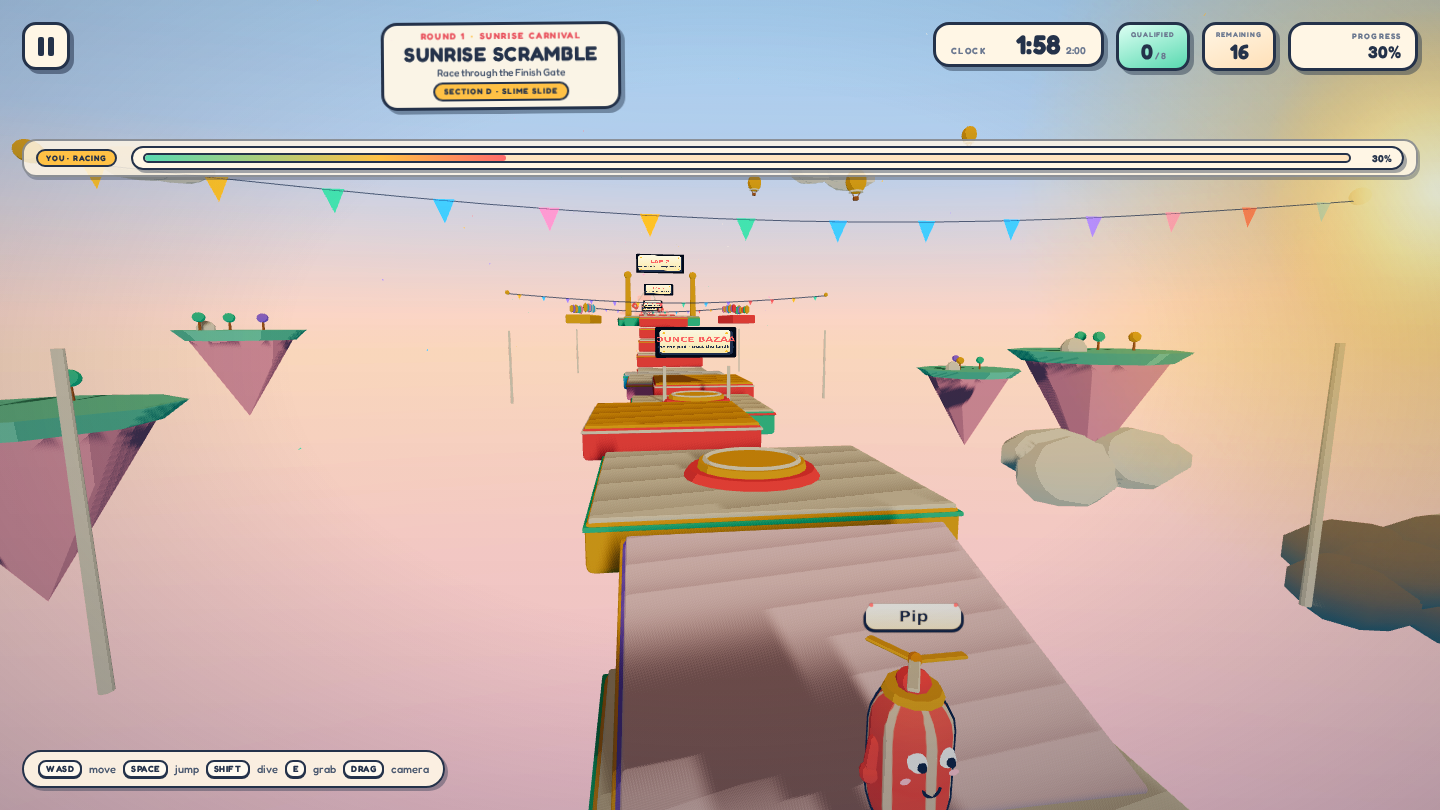
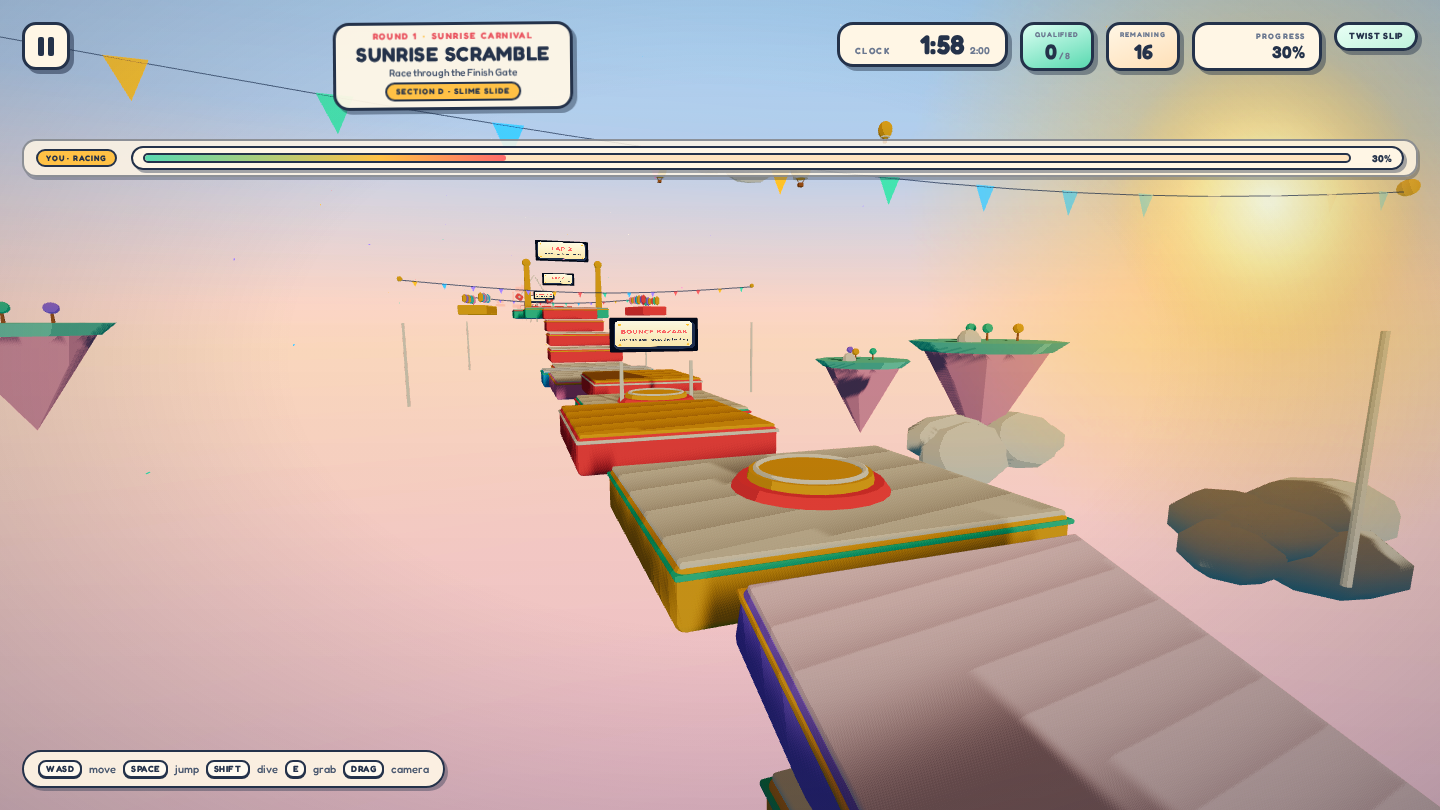
docs(m4-006): record M4 evidence, performance and public copy

diff --git a/README.md b/README.md
@@ -16,7 +16,7 @@
 
 ![Tumble Rush main menu, captured from the live GitHub Pages deployment](docs/readme-hero.png)
 
-Tumble Rush is an original, single-player 3D party battle royale. You are one of 16 jelly-bean **Tumblers** in a sunrise-carnival game show: race a seeded obstacle course, survive a collapsing honeycomb arena, then climb a rising-slime tower to take the crown. Every model, texture, particle, and note of music is generated in code.
+Tumble Rush is an original, single-player 3D party battle royale. You are one of 16 jelly-bean **Tumblers** in a sunrise-carnival game show: race a seeded obstacle course, survive a collapsing honeycomb arena, then climb a rising-slime tower to take the crown. Every Show also carries a seeded **twist** — MOON GRAVITY, SLIPPERY, or RUSH HOUR — that changes the qualifier rules while the Crown Climb stays classic. Every model, texture, particle, and note of music is generated in code.
 
 **No installs. No accounts. No network calls at runtime.** Open the link and play.
 
@@ -24,17 +24,18 @@ Tumble Rush is an original, single-player 3D party battle royale. You are one of
 
 | Round | Mode | Field | Advance | The idea |
 | --- | --- | --- | --- | --- |
-| 1 | **Sunrise Scramble** | 16 | Top 8 finishers | Two laps of a seeded route: a start deck, three of five obstacle sections, and the Crown Gate. The mix includes Tumbler Tangle and Bounce Bazaar. |
-| 2 | **Hexapop** | 8 | Last 4 standing | Three honeycomb tiers over pink slime, shaped as **RINGS**, **SPIRAL**, or **GEARWORKS**. Every tile warns, then drops; the Sugar Rush eats the arena from the outside in. |
-| 3 | **Crown Climb** | 4 | First to the crown | A vertical spiral of rotating beams, rising donuts and pendulums while candy slime climbs below. |
+| 1 | **Sunrise Scramble** | 16 | Top 8 finishers | Two laps of a seeded route: a start deck, three of five obstacle sections, and the Crown Gate. The mix includes Tumbler Tangle and Bounce Bazaar. The show twist changes hazard speed, grip, or gravity. |
+| 2 | **Hexapop** | 8 | Last 4 standing | Three honeycomb tiers over pink slime, shaped as **RINGS**, **SPIRAL**, or **GEARWORKS**. Every tile warns, then drops; the Sugar Rush eats the arena from the outside in. RUSH HOUR starts it earlier. |
+| 3 | **Crown Climb** | 4 | First to the crown | A vertical spiral of rotating beams, rising donuts and pendulums while candy slime climbs below. **FINAL · CLASSIC** on every Show. |
 
-A full show runs **3–5 minutes**, with a two-minute clock on the Course and final. The Round intro and results carry a **Show Card** with the route and arena, so a seed has a name: `COURSE B-D-G / C-F-G · ARENA SPIRAL`. Route repeatability starts with M3: the same seed reproduces the same remix, while M2 seeds now generate the new routes by design. Qualifying earns **kudos**; winning earns a **crown**. Kudos unlock colors, patterns, hats, and emotes in the live 3D Customize screen. Everything is stored locally in your browser.
+A full show runs **3–5 minutes**, with a Course clock of 105 s on RUSH HOUR or 120 s otherwise, and a two-minute final. The Round intro and results carry a **Show Card** with the route, arena, and twist, so a seed has a name: `COURSE B-D-G / C-F-G · ARENA SPIRAL · TWIST MOON GRAVITY`. The same seed reproduces the same remix and twist; M2 seeds now generate the M3/M4 layout and rule by design. Qualifying earns **kudos**; winning earns a **crown**. Kudos unlock colors, patterns, hats, and emotes in the live 3D Customize screen. Everything is stored locally in your browser.
 
 ## Features
 
 - **16-contestant show** — 15 named AI Tumblers with their own looks, skill, reaction time, mistakes, and shoves. Bots use the same controller and physics as you; they can qualify and win.
 - **Seeded remix** — every show composes a fresh two-lap Course route from five relocatable section modules and picks one of three connected Hexapop arena plans. Two new sections, **Tumbler Tangle** and **Bounce Bazaar**, extend the same hazard vocabulary without new physics.
-- **Show Card** — the Round intro, results, and Daily chip name the two routes and the arena, derived from the same pure `planShow(seed)` the levels use.
+- **Twist Season** — each show carries one seeded qualifier rule: **MOON GRAVITY** (floatier jumps), **SLIPPERY** (longer slides), or **RUSH HOUR** (faster hazards, 38 s Sugar Rush, 105 s Course clock). The Crown Climb stays classic, and bots use the same public rules as the player.
+- **Show Card** — the Round intro, results, HUD chip, start-deck sign, and Daily chip name the routes, arena, and twist, derived from the same pure `planShow(seed)` the levels use. The Crown card says `FINAL · CLASSIC`.
 - **Three distinct rounds** — a seeded obstacle race, a collapsing-tile survival arena, and a vertical final that stays fixed as the championship test.
 - **Physical comedy** — coyote time, jump buffering, committed dives, grabs and shoves, stumble wobbles, splats, confetti, and a crown ceremony.
 - **Designed front-end** — main menu, live customization, settings, how-to-play, round intros, countdown, HUD, pause, results, spectate, victory, defeat, and error states.
@@ -42,7 +43,7 @@ A full show runs **3–5 minutes**, with a two-minute clock on the Course and fi
 - **Desktop and touch** — keyboard + mouse, gamepad, and a touch joystick with jump/dive/grab/emote buttons. Responsive down to 390×844.
 - **Accessible by default** — keyboard routes, visible focus, ARIA live announcements, reduced motion, name-tag toggle, and independent audio controls.
 - **Local progression** — versioned profile, safe corrupt-data recovery, kudos economy, cosmetic unlocks, best finish, and a daily seeded show.
-- **Tested and deployed** — Vitest unit tests, Playwright show/mobile/evidence checks, a 10-seed pacing gate and a 12-seed variety gate in CI, and GitHub Pages deployment from `main`.
+- **Tested and deployed** — Vitest unit tests, Playwright show/mobile/evidence checks, a 10-seed pacing gate, a 12-seed variety gate, and a 12-seed twist gate in CI, and GitHub Pages deployment from `main`.
 
 ## Play
 
@@ -81,6 +82,18 @@ Coyote time and jump buffering make the platforming forgiving; dives are committ
 | --- | --- |
 | ![Show Card](docs/evidence/m3-show-card.png) | ![Hexapop](docs/evidence/m2-hexapop.png) |
 
+| Twist: MOON GRAVITY | Twist: SLIPPERY |
+| --- | --- |
+| ![Moon twist card](docs/evidence/m4-twist-moon-intro.png) | ![Slippery twist card](docs/evidence/m4-twist-slippery-intro.png) |
+
+| Twist: RUSH HOUR | FINAL · CLASSIC |
+| --- | --- |
+| ![Rush twist card](docs/evidence/m4-twist-rush-intro.png) | ![Final classic card](docs/evidence/m4-final-classic.png) |
+
+| Twist start sign | Hexapop twist sign |
+| --- | --- |
+| ![Moon start sign](docs/evidence/m4-twist-moon-sign.png) | ![Moon Hexapop sign](docs/evidence/m4-twist-moon-hex-sign.png) |
+
 | Tumbler Tangle | Bounce Bazaar |
 | --- | --- |
 | ![Tumbler Tangle](docs/evidence/m3-tumbler-tangle.png) | ![Bounce Bazaar](docs/evidence/m3-bounce-bazaar.png) |
@@ -108,6 +121,7 @@ src/
 │   ├── physics/         fixed-step capsule world and colliders
 │   ├── player/          bean, controller, camera rig
 │   ├── profile.ts       versioned localStorage profile/economy
+│   ├── twist.ts         pure TwistRules / twistForSeed / twistRulesFor
 │   └── Game.ts          renderer, loop, input, show lifecycle
 ├── test/                Vitest unit tests
 e2e/                     Playwright show, mobile, evidence and review tests
@@ -116,9 +130,9 @@ docs/                    spec, tickets, decisions, reviews, evidence
 
 - **Vite 8 + TypeScript 5 (strict) + Three.js 0.186.**
 - **Custom fixed-step physics** at 1/60 s: capsule-vs-OBB/cylinder, collide-and-slide, moving-platform carry, conveyor surfaces, bounce pads, hazard impulses, and bean-vs-bean capsule collision. No general rigid-body engine.
-- **Deterministic content** — every layout decision comes from a seeded mulberry32 RNG; the daily show uses the date. `planShow(seed)` is pure and owns the Course routes, arena plan, labels, and signature.
+- **Deterministic content** — every layout decision comes from a seeded mulberry32 RNG; the daily show uses the date. `planShow(seed)` is pure and owns the Course routes, arena plan, twist, labels, and signature. The twist uses its own salted hash so it never shifts the route/arena draw.
 - **Original assets only** — geometry, canvas textures, particles, and audio are generated at runtime. The only external asset is the bundled open-license Fredoka variable font.
-- **Quality budgets** — at 1440×810 high, three sampled route starts measure **154–159 draw calls / 155k–160k triangles**, and three arena plans measure **53–58 draw calls / 17.6k–19.1k triangles**, inside the 320 / 200k budget. The development host is SwiftShader-only, so the 55 fps hardware target is validated by draw-call/triangle budgets here and must be checked on real hardware. See [`docs/evidence/m3-performance.json`](docs/evidence/m3-performance.json).
+- **Quality budgets** — at 1440×810 high, the three M4 twist samples measure **155–161 draw calls / 157.9k–159.9k triangles** on the Course start and **56–65 draw calls / 17.2k–19.5k triangles** on the Hexapop start, inside the 320 / 200k budget. The development host is SwiftShader-only, so the 55 fps hardware target is validated by draw-call/triangle budgets here and must be checked on real hardware. See [`docs/evidence/m4-performance.json`](docs/evidence/m4-performance.json).
 
 ## Development
 
@@ -133,9 +147,10 @@ docs/                    spec, tickets, decisions, reviews, evidence
 | `npm run measure:show` | Real-Match pacing baseline (see `docs/METRICS.md`) |
 | `npm run verify:pacing -- --phase=b` | Historical 10-seed pacing gate: Course, Hexapop, Crown living winner, show total |
 | `npm run verify:variety` | 12-seed variety gate: route/arena variety plus every M2 pacing and fairness band |
+| `npm run verify:twists` | 12-seed twist gate: coverage, the live applied probe, every M2 band, and a negative control |
 | `npm run evidence` | Canonical screenshot and render-budget set |
 | `npm run check:release` | Invariants, typecheck, unit tests, build, and focused review specs |
-| `npm run gate:release` | Full release gate: check, `verify:show`, 10-seed pacing, 12-seed variety, and Playwright |
+| `npm run gate:release` | Full release gate: check, `verify:show`, 10-seed pacing, 12-seed variety, 12-seed twists, and Playwright |
 | `npm run ci:local` | Clean install with a workspace-local npm cache + check |
 | `npm run check` | Invariants + typecheck + unit tests + production build |
 | `npm run lint` | Invariants + typecheck |

diff --git a/docs/m4/IMPLEMENTATION-NOTES.md b/docs/m4/IMPLEMENTATION-NOTES.md
@@ -146,3 +146,41 @@ implementation agent, not a second spec. The spec is the contract.
   fixed step; this host is SwiftShader-only.
 - **The start sign must be reachable in the screenshots.** Place it where the
   start camera sees it, not behind the player.
+
+## As built (M4) — final seams
+
+- `src/game/twist.ts` owns `TWISTS`, `CLASSIC_RULES`, `twistForSeed(seed)` and
+  `twistRulesFor(mode, plan)`. The hash salt is `0x74776973`; it never draws
+  from `routeRng`. The 12-seed deck is 6 MOON / 3 SLIPPERY / 3 RUSH HOUR.
+- Final tuning records the only move: moon **airControlScale 1.10 → 1.15**
+  (+4.5%, inside the ±15% band). This keeps seed `21098250` inside the Course
+  band. `scripts/lib/twist-gate.mjs` mirrors the numbers in `TWIST_TUNING` and
+  `src/test/twistGate.test.ts` fails if they drift from `TWISTS`.
+- `Game.installLevel(mode, seed, rulesOverride?)` resolves the rule value,
+  calls `world.setGravity(GRAVITY * rules.gravityScale)`, and calls
+  `controller.setRules(rules)` on every contestant plus the persistent casual
+  pilot. `quitToMenu` passes `CLASSIC_RULES`; the constructor also resets the
+  menu preview to classic gravity. Practice builds its bots before
+  `installLevel`, so the practice pack receives the seeded twist too.
+- `Game.debug.twist` reads the live world: `gravity`, `frictionScale`,
+  `sugarRushSeconds`, `sugarRushReached`, `applied`, `classic`. `applied` is
+  derived from the live values and uniform controller rule identity, not from
+  the plan label.
+- `Course` stores `TwistPlan`, multiplies sweeper/pusher/conveyor/pendulum
+  speeds through `hazardSpeed()`, uses `rules.courseTimeLimit`, and builds a
+  merged start sign (`buildTwistSign`) with the full label and one-line rule.
+  `Hexapop` stores `sugarRushSeconds` / `roundLimit` from the rule set, keeps
+  `TILE_WARNING = 3.3`, and adds a second start sign beside the arena sign.
+- `Match.roundTimeLimit()` owns the qualifier clocks (Course 105 on RUSH,
+  Hexapop 42.9 on RUSH); `Match.sugarRushSeconds()` owns the 38 s beat. The
+  Crown keeps `definition.timeLimit = 120`. `MatchHud` exposes
+  `twistLabel/twistShort/twistRule/twistClassic`.
+- `BotBrain.rules` is the same object the controller receives. Derived
+  `airtimeScale = jumpScale / gravityScale` moves the jump approach/trigger;
+  `steerLead = 1 / frictionScale` moves the pusher prediction and the grounded
+  drift lead. No bot-only speed, jump, teleport or gravity exists.
+- The M4 gate is `scripts/verify-twists.mjs` + `scripts/lib/twist-gate.mjs`.
+  It reuses `measureSweep` (no forked harness), emits JSON/table, always runs
+  the `applied:false` negative control, and asserts coverage, the live probe,
+  the classic Crown and every M2 band. `e2e/m4.spec.ts` covers the UI and the
+  live probe; `e2e/m4-evidence.spec.ts` captures the canonical set.
